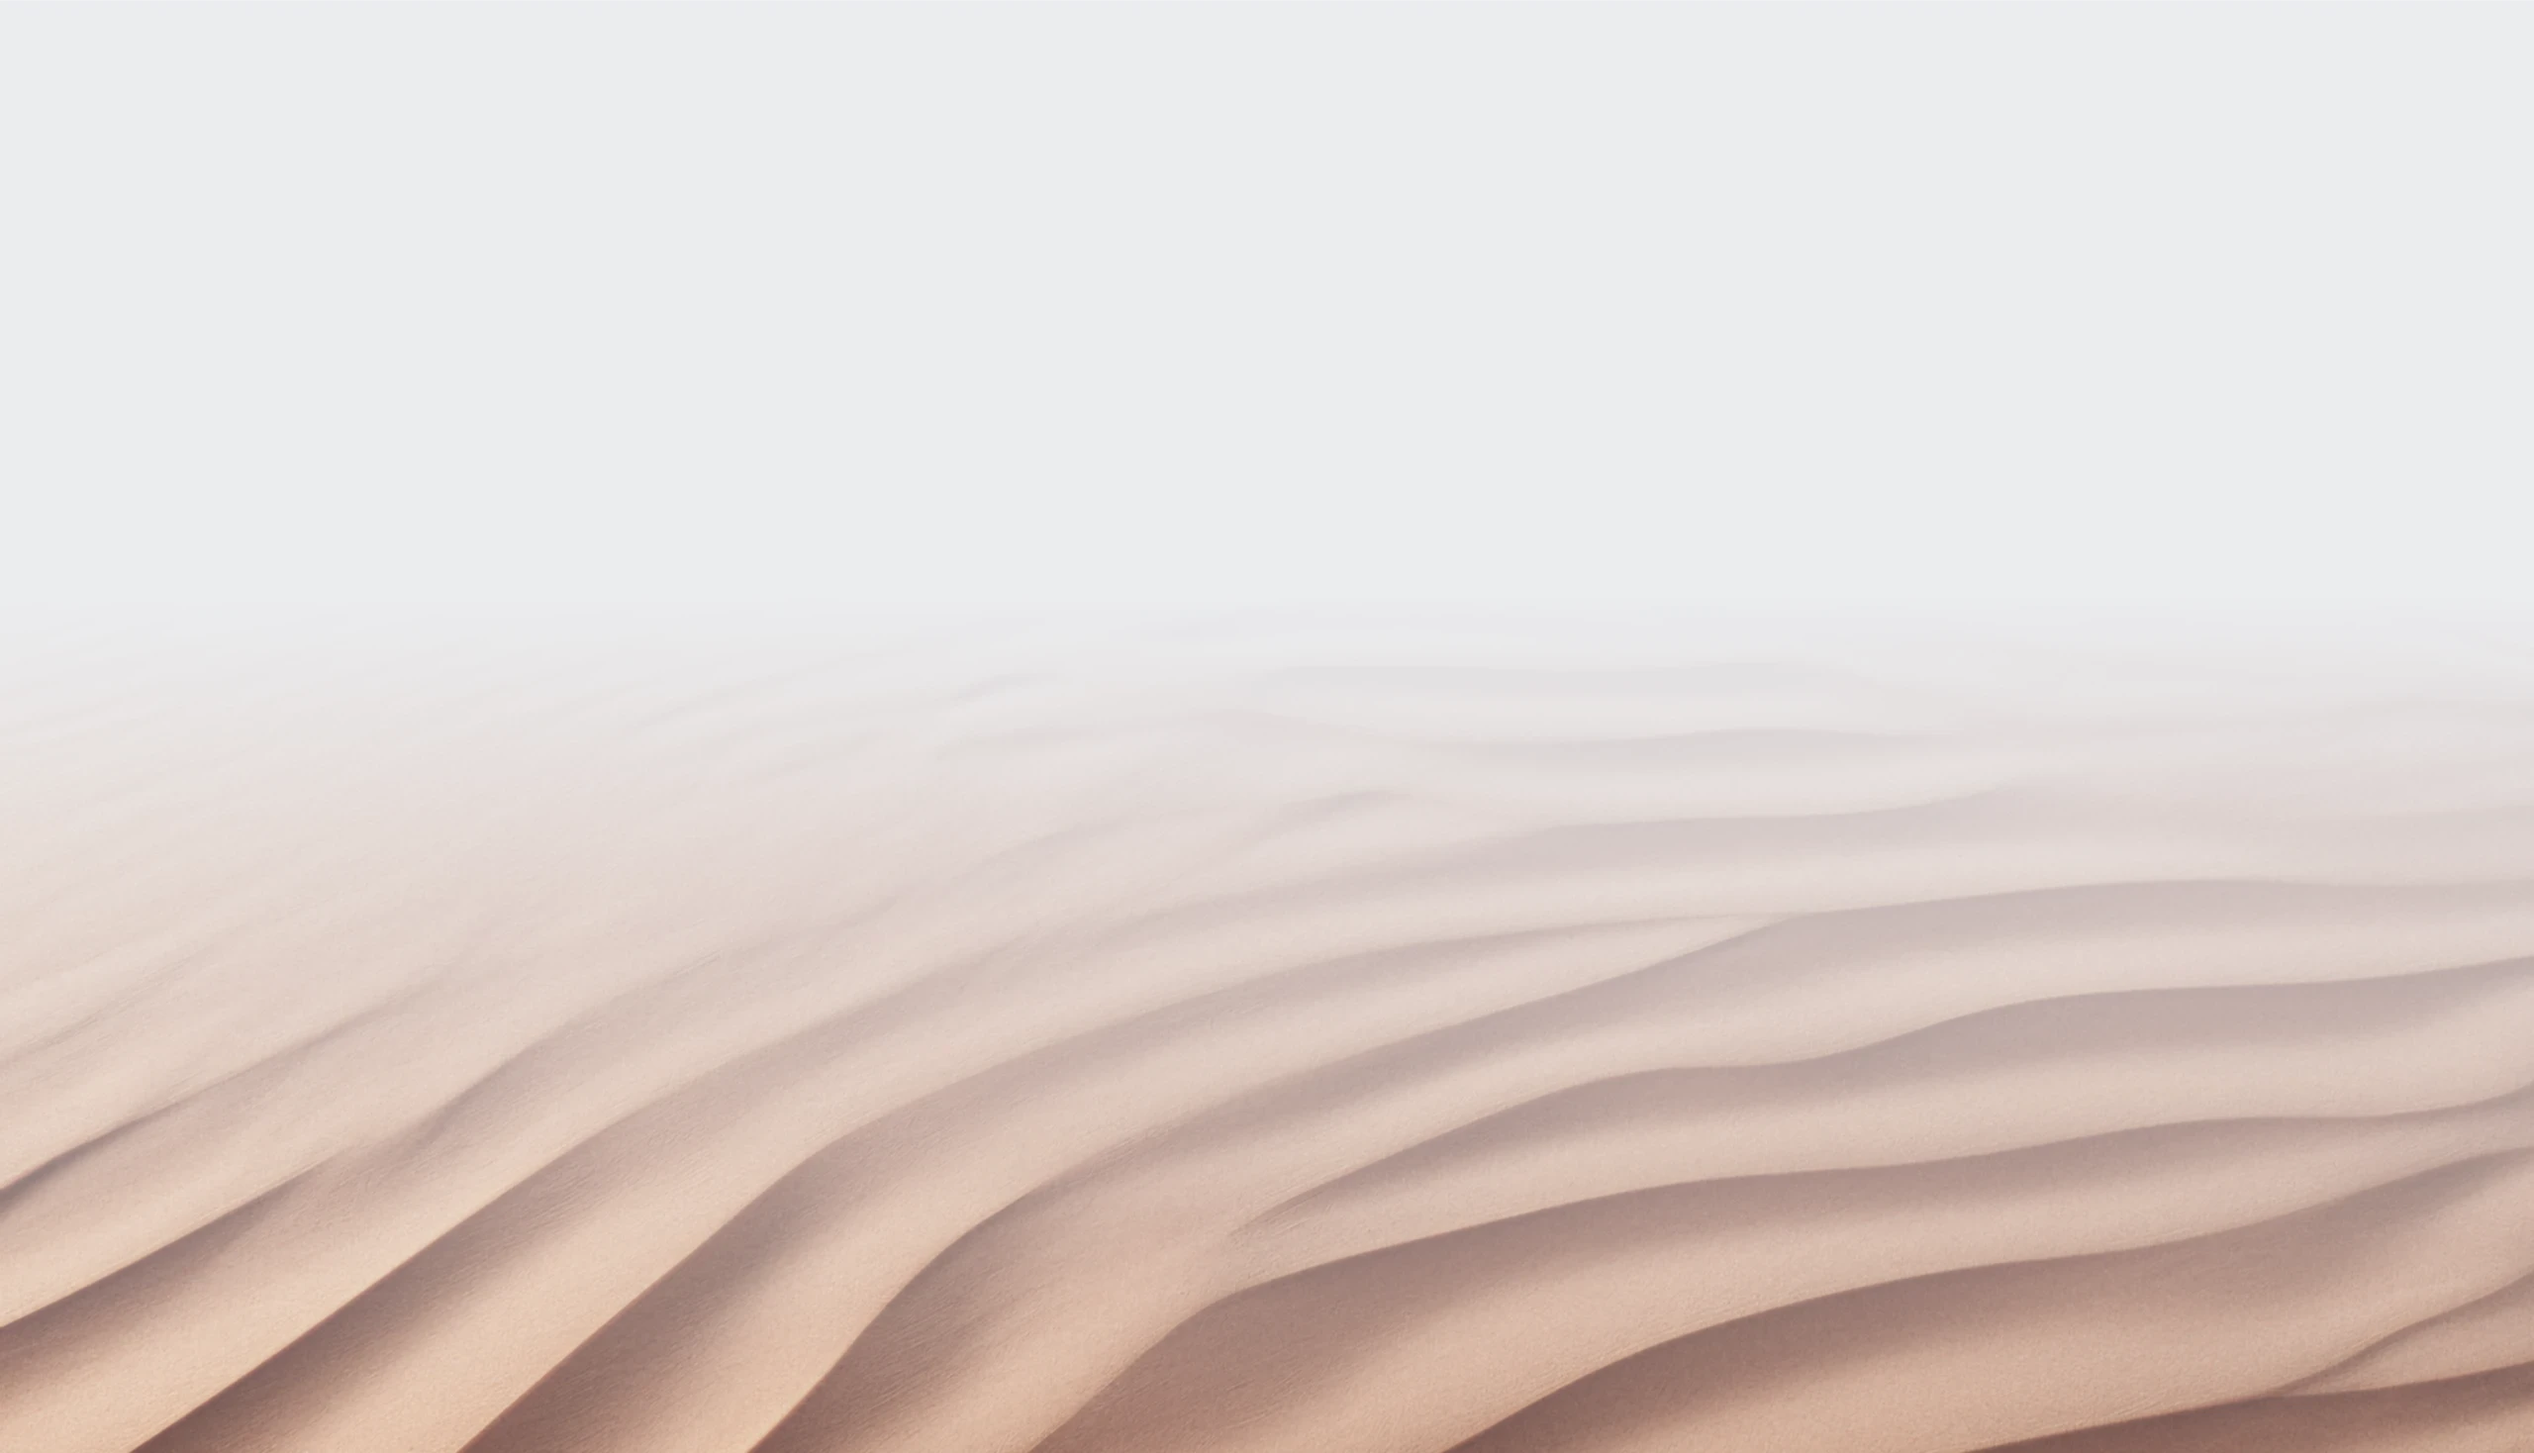
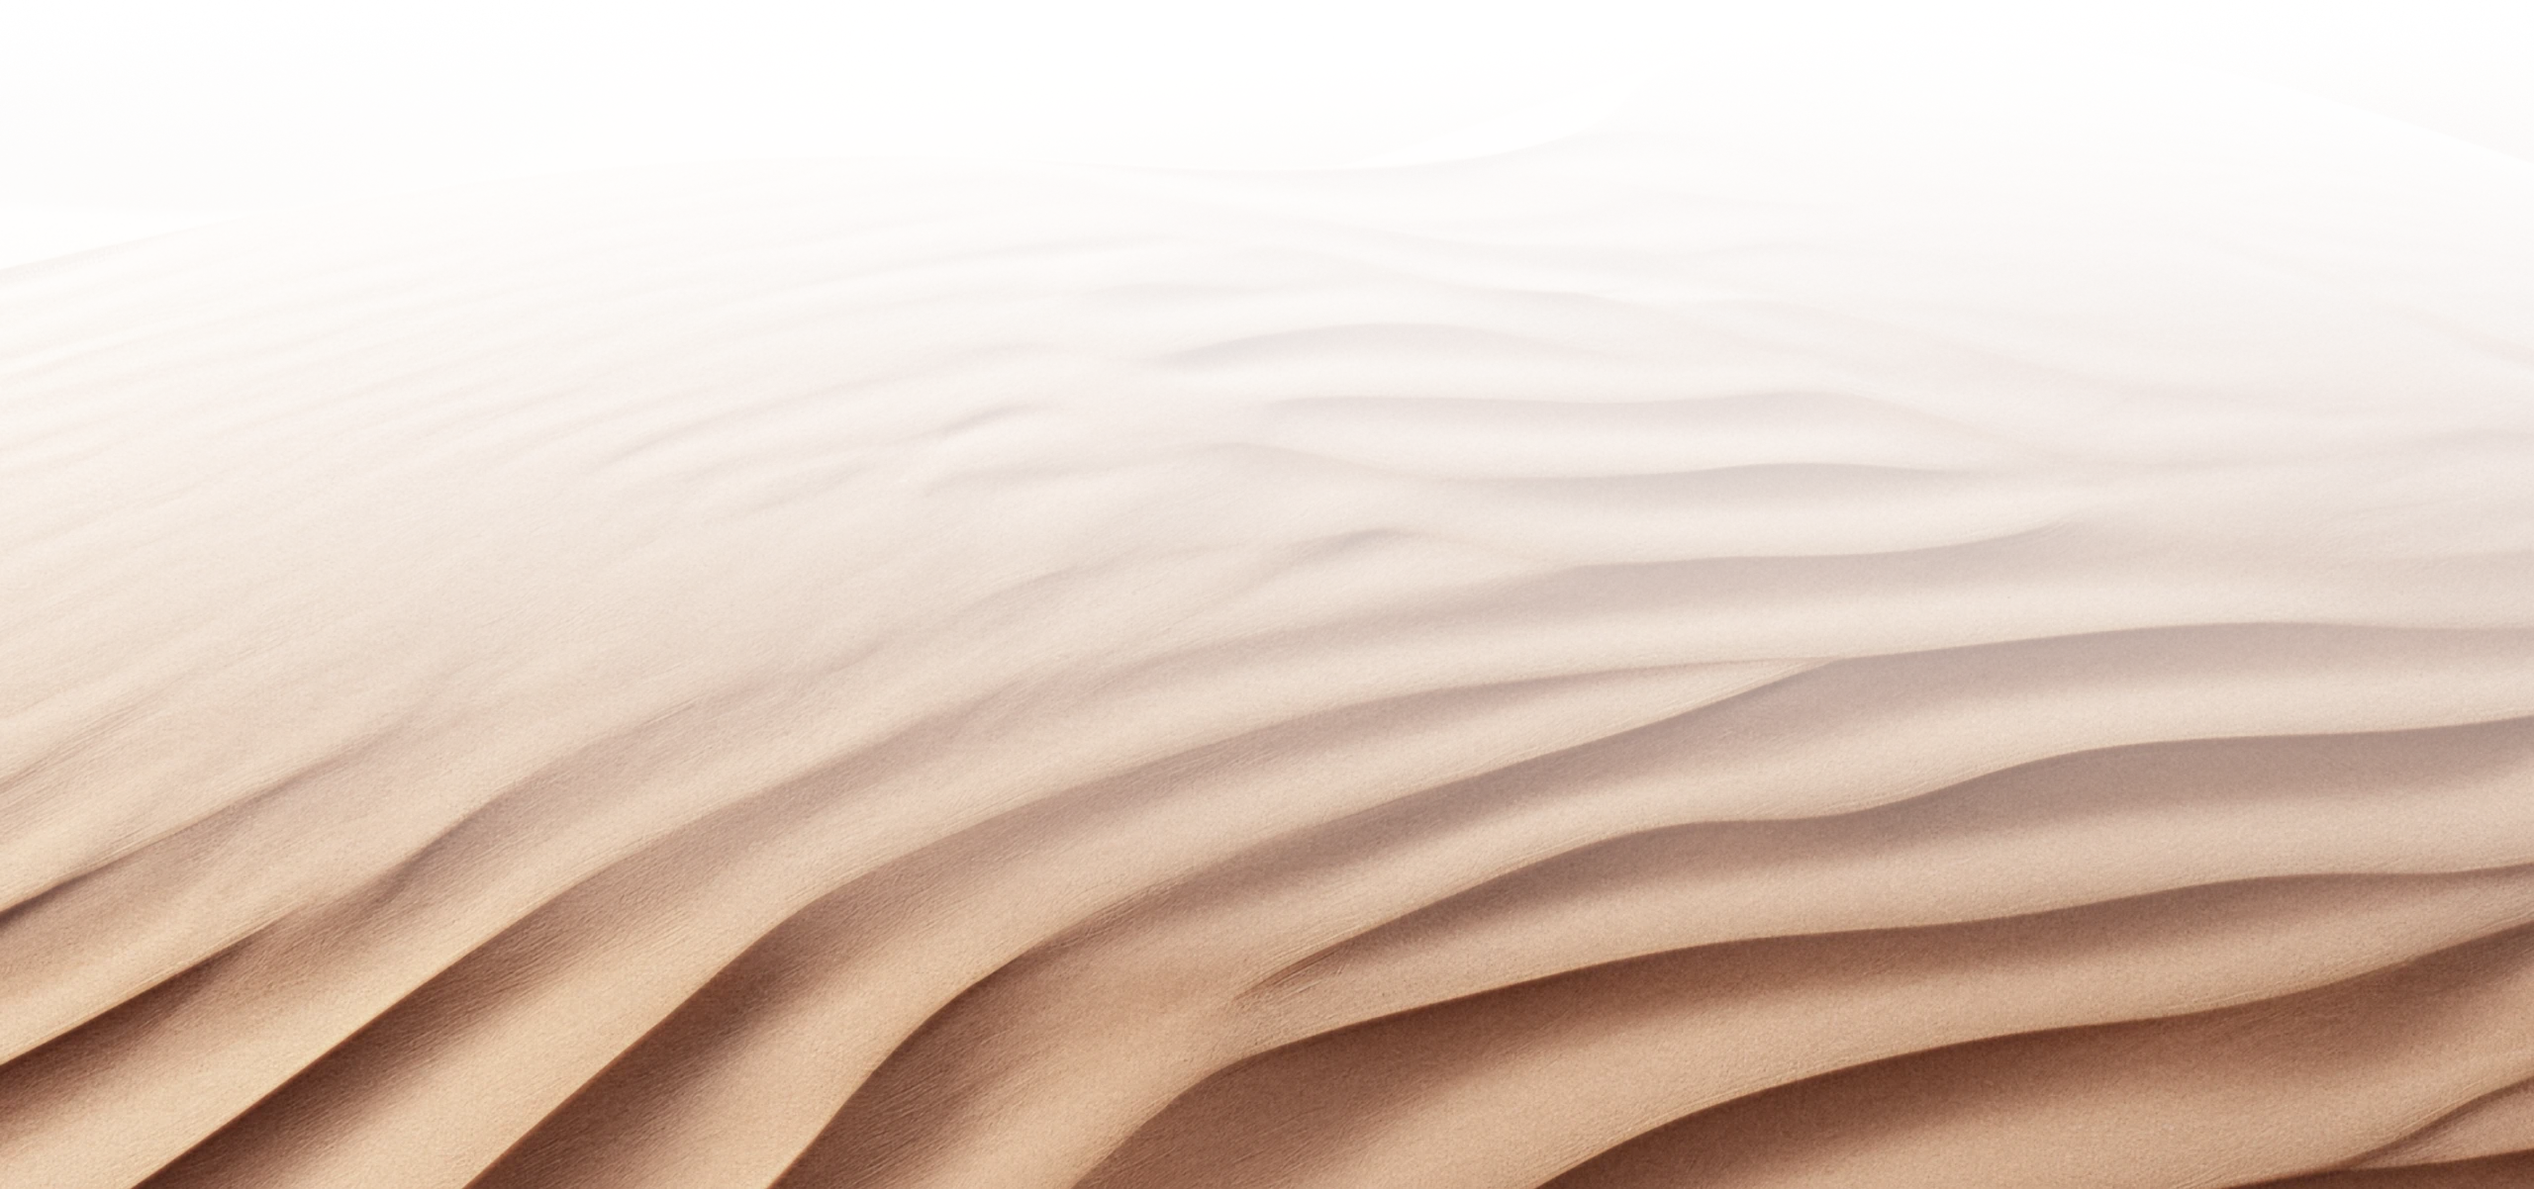
a

diff --git a/site/snippets/blocks/home_newsletter.php b/site/snippets/blocks/home_newsletter.php
@@ -20,7 +20,7 @@ if (!$newsletter) {
 ?>
 <div class="relative min-h-[80vh] md:min-h-[50vh] flex items-center">
     <?= $backgroundImage->_img('full-width', 'absolute-fill w-full h-full object-cover ') ?>
-    <div class="absolute inset-0 bg-gradient-to-t from-white/30 to-white/30"></div>
+
     <div class="contained relative">
         <div class="newsletter-home" data-action="<?= $newsletter->url() ?>" data-controller="newsletter" data-messages="<?= base64_encode(json_encode($errorConfig)) ?>">
             <?php $i = 0;
